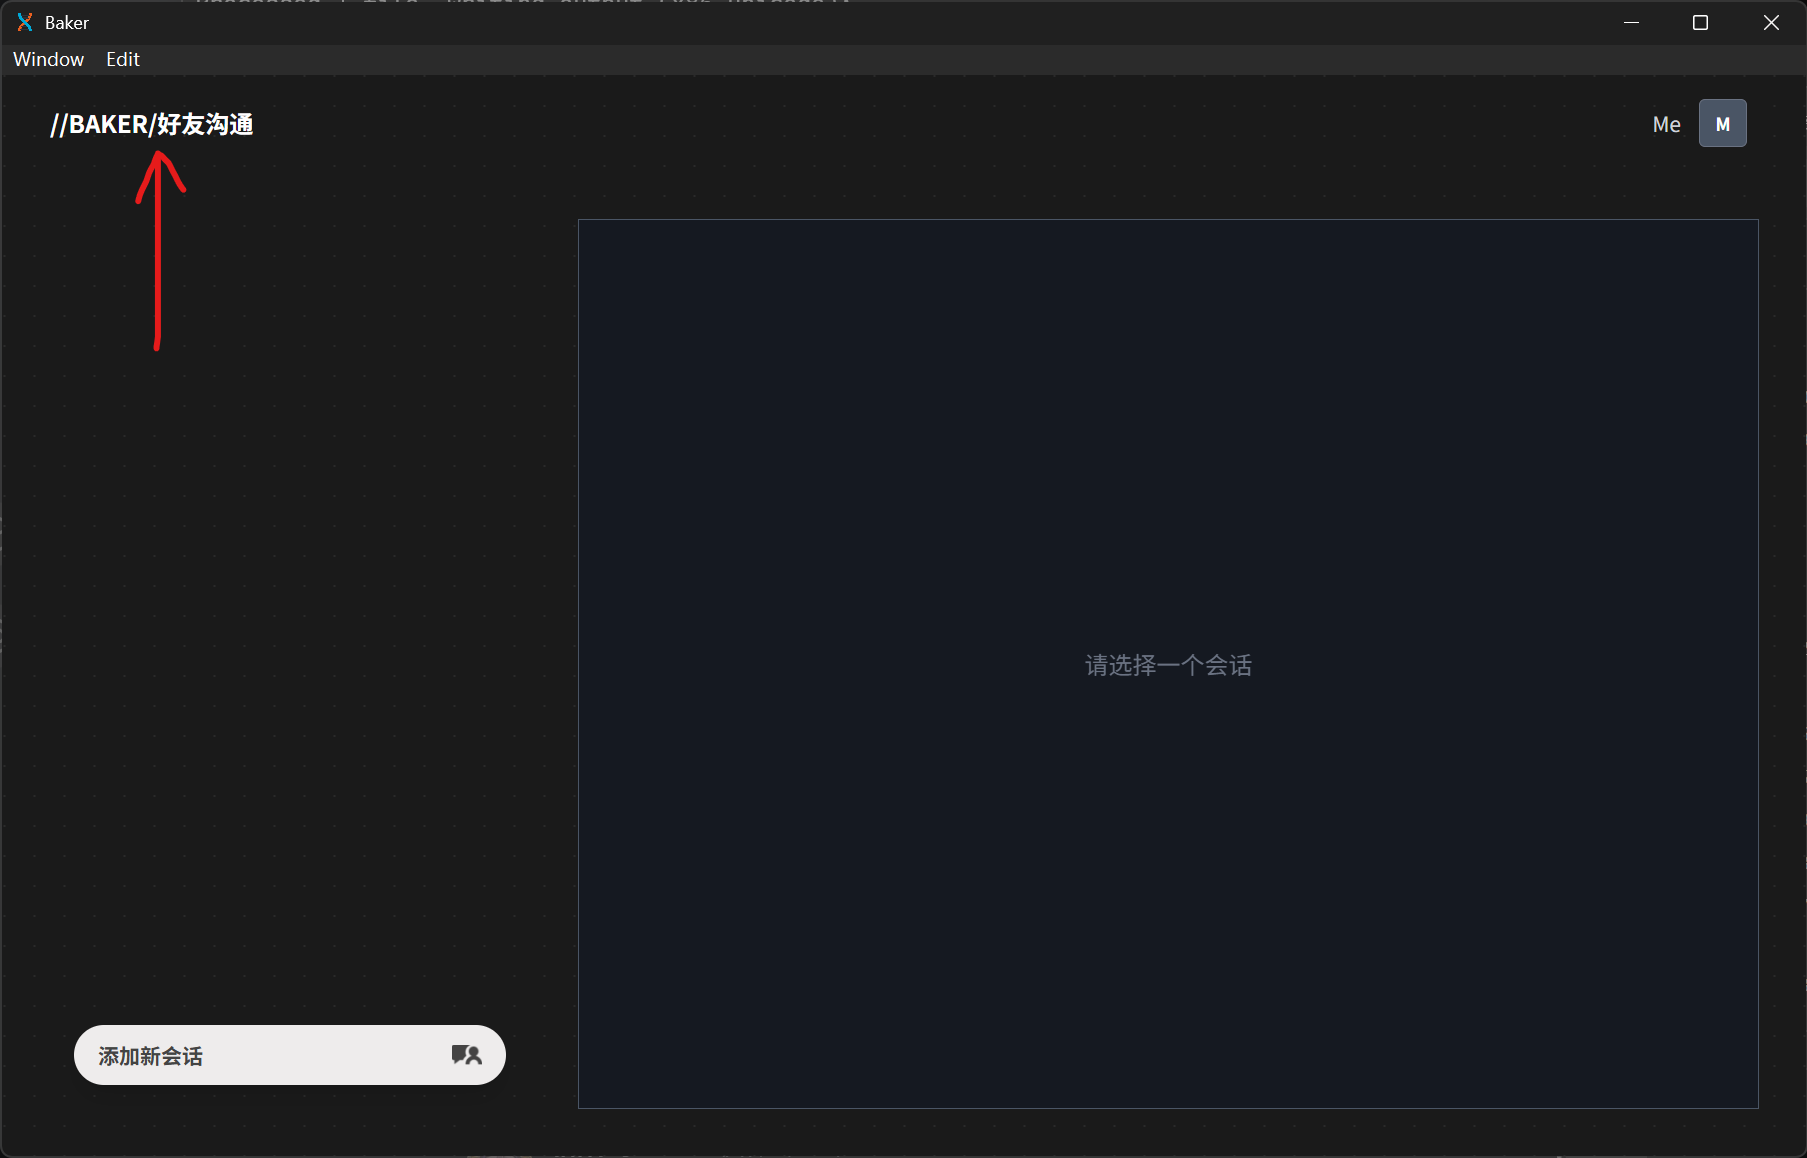
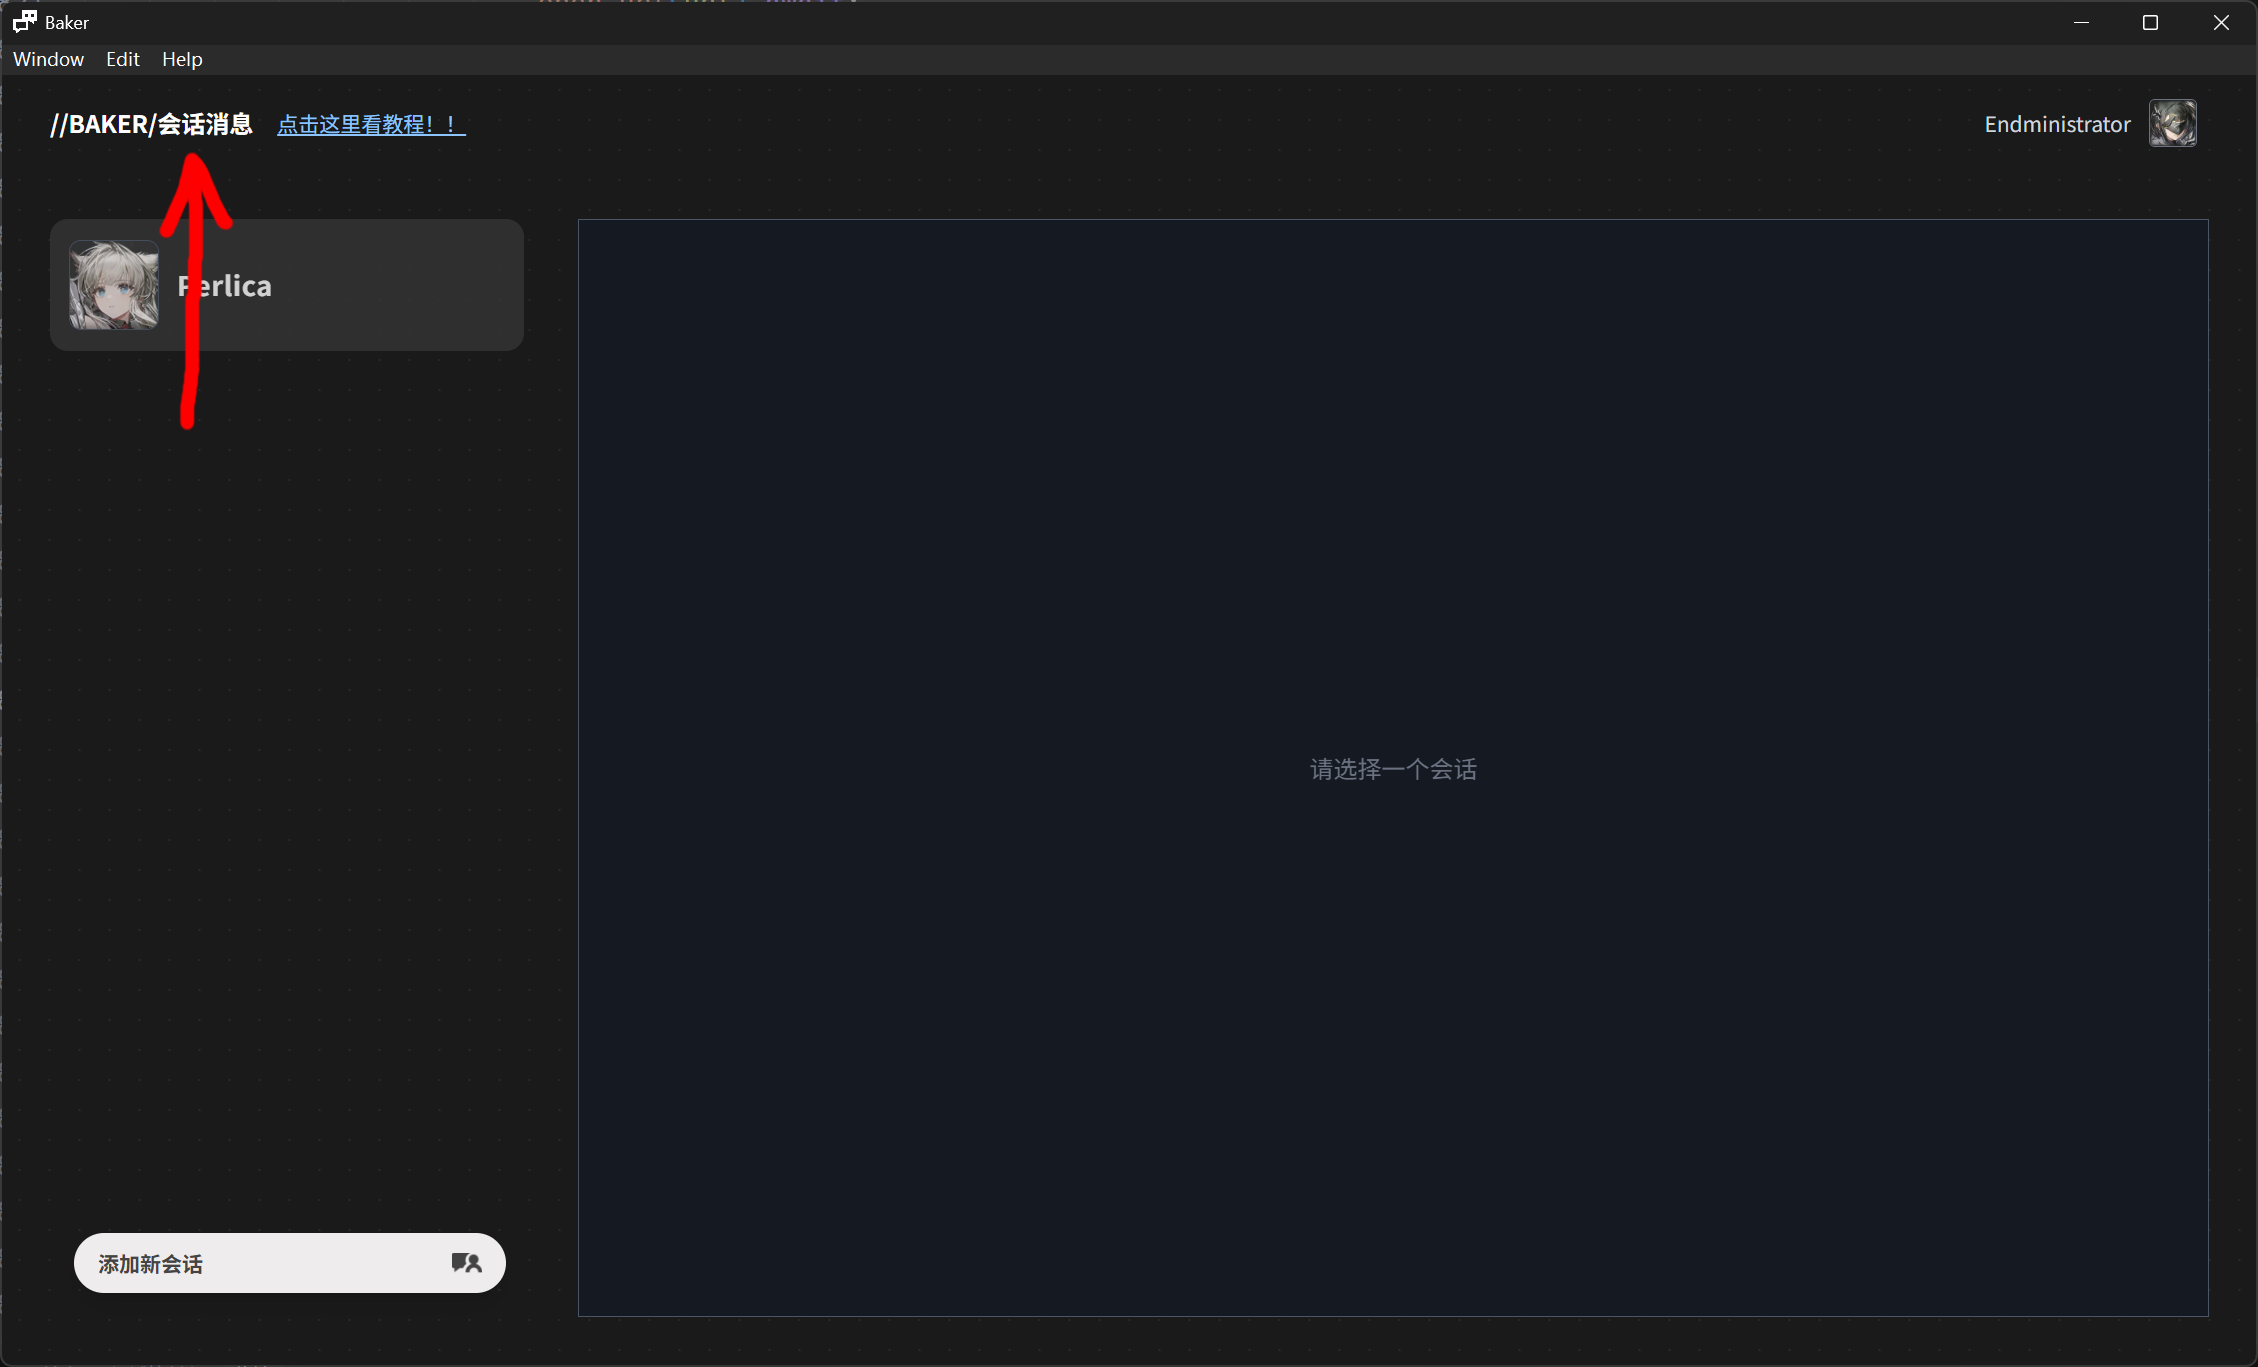
feat: 发布 1.0.0 版本并更新教程界面
- 将项目版本号从 1.0.0-rc.2 更新为 1.0.0，标志正式版本发布
- Modal 组件现在允许自定义最大宽度
- 更新教程图片，优化教程内容，使其符合新版本
- 将标题栏“好友沟通”更改为“会话消息”

diff --git a/assets/tailwind.css b/assets/tailwind.css
@@ -509,9 +509,6 @@
   .w-\[400px\] {
     width: 400px;
   }
-  .w-\[720px\] {
-    width: 720px;
-  }
   .w-auto {
     width: auto;
   }
@@ -524,9 +521,6 @@
   .max-w-\[60\%\] {
     max-width: 60%;
   }
-  .max-w-\[90vw\] {
-    max-width: 90vw;
-  }
   .max-w-\[200px\] {
     max-width: 200px;
   }
@@ -535,6 +529,9 @@
   }
   .max-w-\[340px\] {
     max-width: 340px;
+  }
+  .max-w-\[600px\] {
+    max-width: 600px;
   }
   .max-w-\[820px\] {
     max-width: 820px;
@@ -702,10 +699,6 @@
   .border-\[3px\] {
     border-style: var(--tw-border-style);
     border-width: 3px;
-  }
-  .border-t {
-    border-top-style: var(--tw-border-style);
-    border-top-width: 1px;
   }
   .border-r {
     border-right-style: var(--tw-border-style);
@@ -912,9 +905,6 @@
   .py-8 {
     padding-block: calc(var(--spacing) * 8);
   }
-  .pt-4 {
-    padding-top: calc(var(--spacing) * 4);
-  }
   .pr-1 {
     padding-right: calc(var(--spacing) * 1);
   }
@@ -923,9 +913,6 @@
   }
   .pb-4 {
     padding-bottom: calc(var(--spacing) * 4);
-  }
-  .pb-6 {
-    padding-bottom: calc(var(--spacing) * 6);
   }
   .pb-20 {
     padding-bottom: calc(var(--spacing) * 20);

diff --git a/src/components/baker/modals.rs b/src/components/baker/modals.rs
@@ -10,7 +10,14 @@ fn Modal(
     children: Element,
     on_close: EventHandler,
     on_confirm: EventHandler,
+    max_width: Option<u32>,
 ) -> Element {
+    let content_style = if let Some(mw) = max_width {
+        format!("w-full max-w-[{}px] mx-auto", mw)
+    } else {
+        "w-full max-w-[340px] mx-auto".to_owned()
+    };
+
     rsx! {
         div {
             class: "fixed inset-0 bg-black/50 flex items-center justify-center z-50 backdrop-blur-sm",
@@ -37,7 +44,7 @@ fn Modal(
                             }
                         }
 
-                        div { class: "w-full max-w-[340px] mx-auto",
+                        div { class: content_style,
                             div { class: "p-4 space-y-4",
 
                                 {children}
@@ -717,94 +724,95 @@ pub fn TutorialModal(on_close: EventHandler<()>, on_confirm: EventHandler<bool>)
     let mut dont_show_again = use_signal(|| false);
 
     rsx! {
-        div {
-            class: "fixed inset-0 bg-black/50 flex items-center justify-center z-50 backdrop-blur-sm",
-            onclick: move |_| on_close.call(()),
-            div {
-                class: "bg-[#2b2b2b] w-[720px] max-w-[90vw] rounded-xl shadow-2xl overflow-hidden border border-gray-600",
-                onclick: |e| e.stop_propagation(),
-                div { class: "px-6 py-4 border-b border-gray-600 flex justify-between items-center bg-[#333]",
-                    h2 { class: "text-white text-lg font-bold", "教程" }
-                    button {
-                        class: "text-gray-400 hover:text-white transition-colors",
-                        onclick: move |_| on_close.call(()),
-                        "✕"
-                    }
-                }
-                div { class: "p-6 max-h-[60vh] overflow-y-auto custom-scrollbar text-gray-200 text-sm leading-relaxed space-y-3",
-                    h1 { class: "text-3xl font-bold", "对于 baker-dx 的简略教程" }
-                    h2 { class: "text-2xl font-bold", "1. 添加干员" }
-                    p {
-                        img { alt: "添加干员", src: IMAGE_TUTORIAL_1 }
-                    }
-                    p {
-                        img { alt: "添加干员", src: IMAGE_TUTORIAL_2 }
-                    }
-                    p { "左键双击左上角的 //BAKER/好友沟通，打开设置界面。" }
-                    p { "第一个输入框是干员名称，第二个是干员头像。" }
-                    p {
-                        "幸好应用目录 avatar/ 下有 Perlica 的头像，我们可以直接用这个。"
-                    }
-                    p { "两个空填完之后点击添加干员即可，然后关闭设置界面。" }
-                    h2 { class: "text-2xl font-bold mt-10", "2. 会话" }
-                    p {
-                        img { alt: "会话", src: IMAGE_TUTORIAL_3 }
-                    }
-                    p { "先点击左下角添加新会话，单选 Perlica 创建新会话。" }
-                    p { "点击 Perlica 的名片就可以切换到她的会话了。" }
-                    ul { style: "list-style: circle inside",
-                        li {
-                            "1 处按钮可以更改会话头部的样式，点击后会弹出一个菜单，你可以选择 2 个不同的样式。"
+        Modal {
+            title: "教程",
+            content_confirmation_button: "关闭",
+            on_close,
+            on_confirm: move |_| { on_confirm.call(dont_show_again()) },
+            max_width: 1280,
+
+            {
+                rsx! {
+                    div { class: "p-6 max-h-[60vh] overflow-y-auto custom-scrollbar text-black text-base leading-relaxed space-y-3",
+                        h1 { class: "text-3xl font-bold", "对于 baker-dx 的简略教程" }
+                        h2 { class: "text-2xl font-bold", "1. 添加干员" }
+                        p {
+                            img {
+                                class: "max-w-[600px]",
+                                alt: "添加干员",
+                                src: IMAGE_TUTORIAL_1,
+                            }
                         }
-                        li {
-                            "右键输入框右侧的菜单按钮，可以选择："
-                            ul {
-                                class: "ml-10",
-                                style: "list-style: square inside",
-                                li {
-                                    "为对方发送：将输入框中的内容以对方的身份发送。"
-                                }
-                                li {
-                                    "发送为状态：将输入框中的内容以状态行的形式发送。"
-                                    ul {
-                                        class: "ml-10",
-                                        style: "list-style: inside",
-                                        li {
-                                            "状态行：状态行是一种特殊的消息，它会在会话中以独立的行展示，通常用于展示时间等其他重要信息。"
+                        p {
+                            img {
+                                class: "max-w-[600px]",
+                                alt: "添加干员",
+                                src: IMAGE_TUTORIAL_2,
+                            }
+                        }
+                        p { "左键双击左上角的 //BAKER/会话消息，打开设置界面。" }
+                        p { "第一个输入框是干员名称，第二个是干员头像。" }
+                        p { "两个空填完之后点击添加干员即可，然后关闭设置界面。" }
+                        h2 { class: "text-2xl font-bold mt-10", "2. 会话" }
+                        p {
+                            img { class: "max-w-[600px]", alt: "会话", src: IMAGE_TUTORIAL_3 }
+                        }
+                        p { "幸好默认就有 Perlica 的实例会话，我们可以直接用这个。" }
+                        p { "点击 Perlica 的名片就可以切换到她的会话了。" }
+                        ul { style: "list-style: circle inside",
+                            li {
+                                "1 处按钮可以更改会话头部的样式，点击后会弹出一个菜单，你可以选择 2 个不同的样式。"
+                            }
+                            li {
+                                "右键输入框右侧的菜单按钮，可以选择："
+                                ul { class: "ml-10", style: "list-style: square inside",
+                                    li { "为对方发送：将输入框中的内容以对方的身份发送。" }
+                                    li {
+                                        "发送为状态：将输入框中的内容以状态行的形式发送。"
+                                        ul { class: "ml-10", style: "list-style: inside",
+                                            li {
+                                                "状态行：状态行是一种特殊的消息，它会在会话中以独立的行展示，通常用于展示时间等其他重要信息。"
+                                            }
                                         }
                                     }
                                 }
                             }
                         }
+                        h2 { class: "text-2xl font-bold mt-10", "3. 回放" }
+                        p {
+                            img {
+                                class: "max-w-[600px]",
+                                alt: "完整的聊天",
+                                src: IMAGE_TUTORIAL_4,
+                            }
+                            img {
+                                class: "max-w-[600px]",
+                                alt: "回放界面",
+                                src: IMAGE_TUTORIAL_5,
+                            }
+                        }
+                        p { "现在我们写好一段对话了。" }
+                        p { "右键一个消息，即可开始回放。" }
+                        p { "回放间隔计算有两种模式：" }
+                        ul { style: "list-style: circle inside",
+                            li { "固定间隔" }
+                            li { "按字数：根据消息的字数计算间隔" }
+                        }
+                        p {
+                            "那么两条消息发送的间隔就为：发送后间隔（第三个） + 输入间隔（就是那个输入动画的间隔）（前两个）"
+                        }
+                        p {
+                            "推荐设置为：\r\n    固定间隔 400ms + 发送后间隔 1000ms，这样子可能大差不差。\r\n    点击开始回放就好了。"
+                        }
+                        p {
+                            "（回放完之后发送消息（或者历史消息）看不到？切换其他的会话再回来就行了。）"
+                        }
+                        hr {}
+                        p {
+                            em { "如果你觉得这个软件有用，不妨分享一下？！" }
+                        }
                     }
-                    h2 { class: "text-2xl font-bold mt-10", "3. 回放" }
-                    p {
-                        img { alt: "完整的聊天", src: IMAGE_TUTORIAL_4 }
-                        img { alt: "回放界面", src: IMAGE_TUTORIAL_5 }
-                    }
-                    p { "现在我们写好一段对话了。" }
-                    p { "右键一个消息，即可开始回放。" }
-                    p { "回放间隔计算有两种模式：" }
-                    ul {
-                        li { "固定间隔" }
-                        li { "按字数：根据消息的字数计算间隔" }
-                    }
-                    p {
-                        "那么两条消息发送的间隔就为：发送后间隔（第三个） + 输入间隔（就是那个输入动画的间隔）（前两个）"
-                    }
-                    p {
-                        "推荐设置为：\r\n    固定间隔 400ms + 发送后间隔 1000ms，这样子可能大差不差。\r\n    点击开始回放就好了。"
-                    }
-                    p {
-                        "（回放完之后发送消息（或者历史消息）看不到？切换其他的会话再回来就行了。）"
-                    }
-                    hr {}
-                    p {
-                        em { "如果你觉得这个软件有用，不妨分享一下？！" }
-                    }
-                }
-                div { class: "px-6 pb-6 pt-4 border-t border-gray-600 flex items-center justify-between",
-                    label { class: "flex items-center gap-2 text-gray-300 text-sm cursor-pointer select-none",
+                    label { class: "flex items-center gap-2 text-black text-base cursor-pointer select-none",
                         input {
                             r#type: "checkbox",
                             class: "w-4 h-4 accent-blue-600",
@@ -812,11 +820,6 @@ pub fn TutorialModal(on_close: EventHandler<()>, on_confirm: EventHandler<bool>)
                             onclick: move |_| dont_show_again.set(!dont_show_again()),
                         }
                         span { "不再显示" }
-                    }
-                    button {
-                        class: "px-5 py-2 bg-blue-600 hover:bg-blue-500 text-white rounded text-sm font-medium",
-                        onclick: move |_| on_confirm.call(dont_show_again()),
-                        "确定"
                     }
                 }
             }

diff --git a/src/components/baker/layout.rs b/src/components/baker/layout.rs
@@ -832,7 +832,7 @@ pub fn BakerLayout() -> Element {
                         ondoubleclick: move |_| {
                             navigator.push(Route::SettingsPage {});
                         },
-                        "//BAKER/好友沟通"
+                        "//BAKER/会话消息"
                     }
                     if !hide_tutorial {
                         a {
